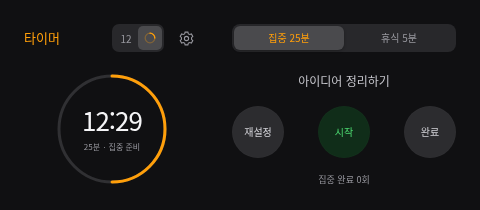
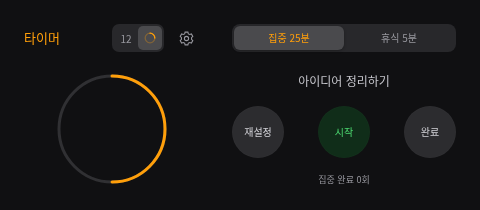
Show only the shrinking ring in circular timer view

Changed region(s): [[0.1562, 0.5143, 0.3125, 0.6286], [0.1562, 0.6857, 0.3125, 0.7143]]

diff --git a/style.css b/style.css
@@ -7,3 +7,5 @@
 /* Apple Clock palette and controls */
 .pomo-tabs .selected{background:#48484a;color:#fff}.pomo-track div{background:#ff9f0a}.clock{border-color:#ff9f0a}.clock>span{color:#f5f5f7;font-weight:200}.timer-panel .timer-topbar button{color:#ff9f0a}.pomo-tabs{background:#303034;border-radius:8px;padding:3px;gap:0}.pomo-tabs button{flex:1;background:transparent}.pomo-tabs .selected{box-shadow:0 1px 3px #0005}.pomo-settings{color:#8e8e93}.clock-tabs{margin-bottom:15px}
 .timer-view-switch{display:flex;justify-content:center;gap:2px;width:132px;margin:18px auto 0;padding:3px;background:#303034;border-radius:7px}.timer-view-switch button{flex:1;padding:5px 8px;color:#8e8e93;font-size:10px;border-radius:5px}.timer-view-switch button[aria-pressed="true"]{background:#515154;color:#ff9f0a}.timer-view-switch button:disabled{opacity:.35;cursor:default}.clock[data-timer-view]{position:relative;border:0}.clock .timer-dial{position:absolute;inset:0;width:100%;height:100%;display:none}.clock[data-timer-view="circle"] .timer-dial{display:block}.timer-dial circle{fill:none;stroke-width:4}.timer-dial .dial-track{stroke:#38383b}.timer-dial .dial-remaining{stroke:#ff9f0a;stroke-linecap:round;transform:rotate(-90deg);transform-origin:center}.clock>span,.clock>small{position:relative;z-index:1}
+
+.clock[data-timer-view="circle"]>#timer,.clock[data-timer-view="circle"]>#timer-state{display:none}

diff --git a/app.js b/app.js
@@ -54,7 +54,8 @@ function syncFloating(){
  if(clockMode==='pomodoro'){const p=state.pomo;doc.getElementById('mini-timer-state').textContent=`${p.phase==='focus'?p.focusMinutes:p.breakMinutes}분 · ${p.phase==='focus'?'집중':'휴식'} ${p.started?'중':'준비'}`;}
  for(const phase of ['focus','break'])doc.getElementById('mini-pomo-'+phase).setAttribute('aria-pressed',String(state.pomo.phase===phase));
  const taskTitle=doc.getElementById('mini-focus-name');taskTitle.title=taskTitle.textContent;const progress=doc.getElementById('mini-pomo-progress');if(progress)progress.style.width=$('#pomo-progress').style.width;
- doc.title=($('#timer').textContent||'타이머')+' · 차곡';
+ doc.title=effectiveTimerView()==='circle'?'원형 타이머 · 차곡':($('#timer').textContent||'타이머')+' · 차곡';
+ doc.querySelector('.readout').setAttribute('aria-label',effectiveTimerView()==='circle'?`남은 시간 ${Math.round(remainingFraction()*100)}퍼센트`:'남은 시간');
 }
 $('#float-timer').onclick=async()=>{
  if(floatingWindow&&!floatingWindow.closed){floatingWindow.focus();return}

diff --git a/floating-window.js b/floating-window.js
@@ -62,9 +62,9 @@ body[data-timer-view="circle"] .timer-dial { display: block; position: absolute;
 .timer-dial .dial-track { stroke: #303033; }
 .timer-dial .dial-remaining { stroke: var(--accent); stroke-linecap: round; transform: rotate(-90deg); transform-origin: center; }
 body[data-timer-view="circle"] .time-accent, body[data-timer-view="circle"] .pomo-track { display: none; }
-body[data-timer-view="circle"] #mini-timer { margin: 0; font-size: 26px; line-height: 32px; letter-spacing: -1px; z-index: 1; }
+body[data-timer-view="circle"] #mini-timer { display: none; }
 body[data-timer-view="circle"][data-long-time="true"] #mini-timer { font-size: 22px; }
-body[data-timer-view="circle"] #mini-timer-state { margin-top: 4px; font-size: 8px; z-index: 1; }
+body[data-timer-view="circle"] #mini-timer-state { display: none; }
 .task-panel { min-width: 0; display: grid; grid-template-rows: 18px 52px 12px; row-gap: 16px; }
 #mini-focus-name {
   margin: 0; font-size: 12px; line-height: 18px; font-weight: 400; color: #c5c5cb;

diff --git a/README.md b/README.md
@@ -44,7 +44,7 @@ npm start
 
 ## 숫자 / 원형 보기
 
-본 화면의 **숫자·원형** 버튼이나 작은 창 제목 옆 보기 아이콘으로 전환합니다. 숫자 보기는 남은 시간을 크게 표시하고, 원형 보기는 주황색 링이 남은 시간에 비례해 줄어듭니다. 원형 가운데에도 정확한 남은 시간을 표시합니다.
+본 화면의 **숫자·원형** 버튼이나 작은 창 제목 옆 보기 아이콘으로 전환합니다. 숫자 보기는 남은 시간을 크게 표시하고, 원형 보기는 주황색 링이 남은 시간에 비례해 줄어듭니다. 원형 보기에서는 숫자 시간과 설명을 숨기고 줄어드는 링만 표시합니다.
 
 보기 변경은 실행·일시 정지 상태와 남은 시간에 영향을 주지 않으며 자동 저장됩니다. 포모도로 집중·휴식과 일반 타이머에서 사용할 수 있습니다. 종료 시간이 정해져 있지 않은 스톱워치는 숫자로 표시합니다.
 
